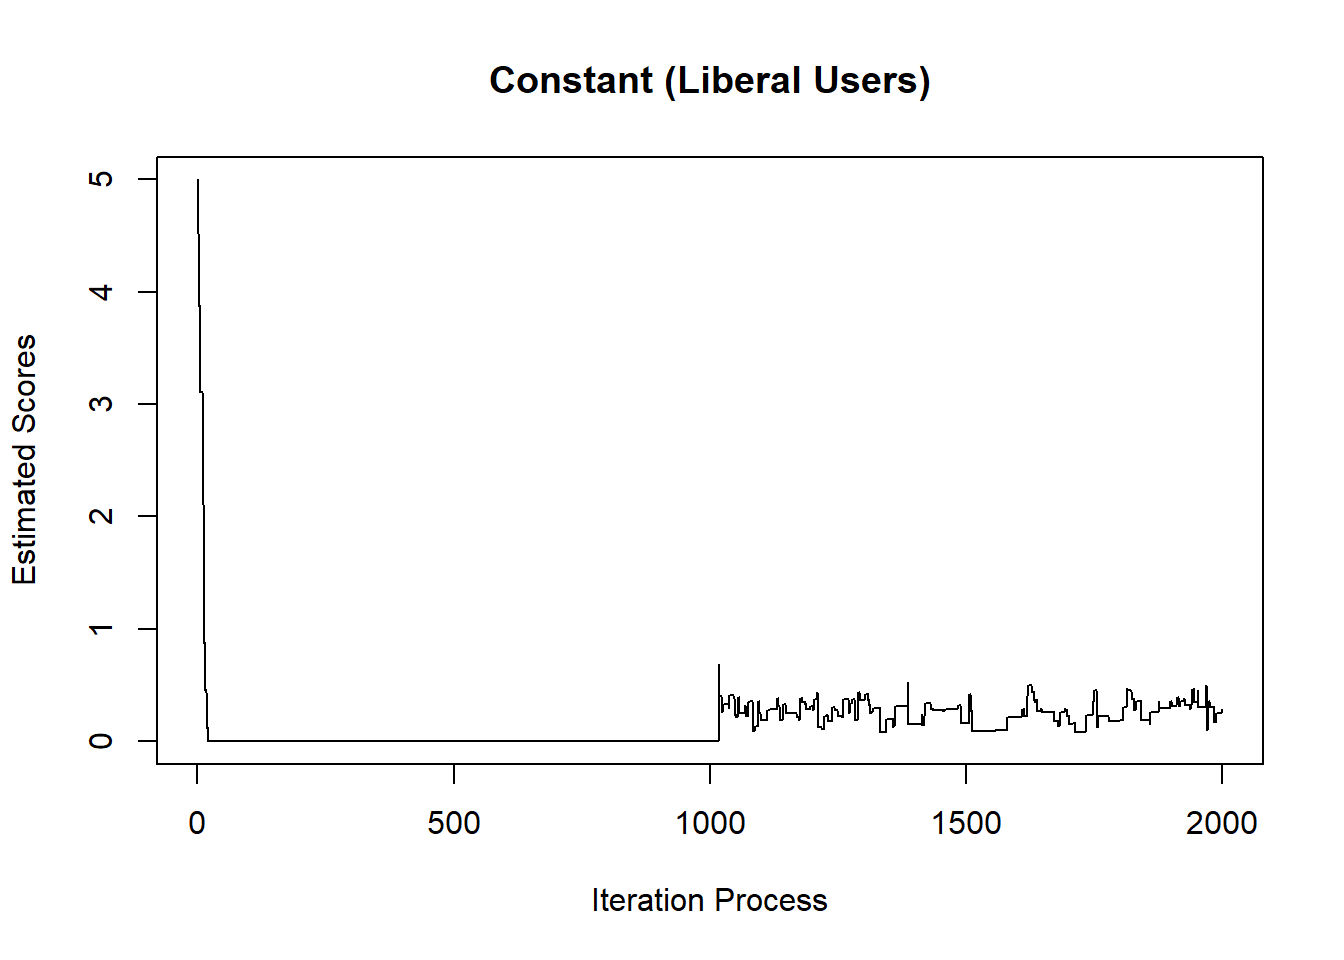
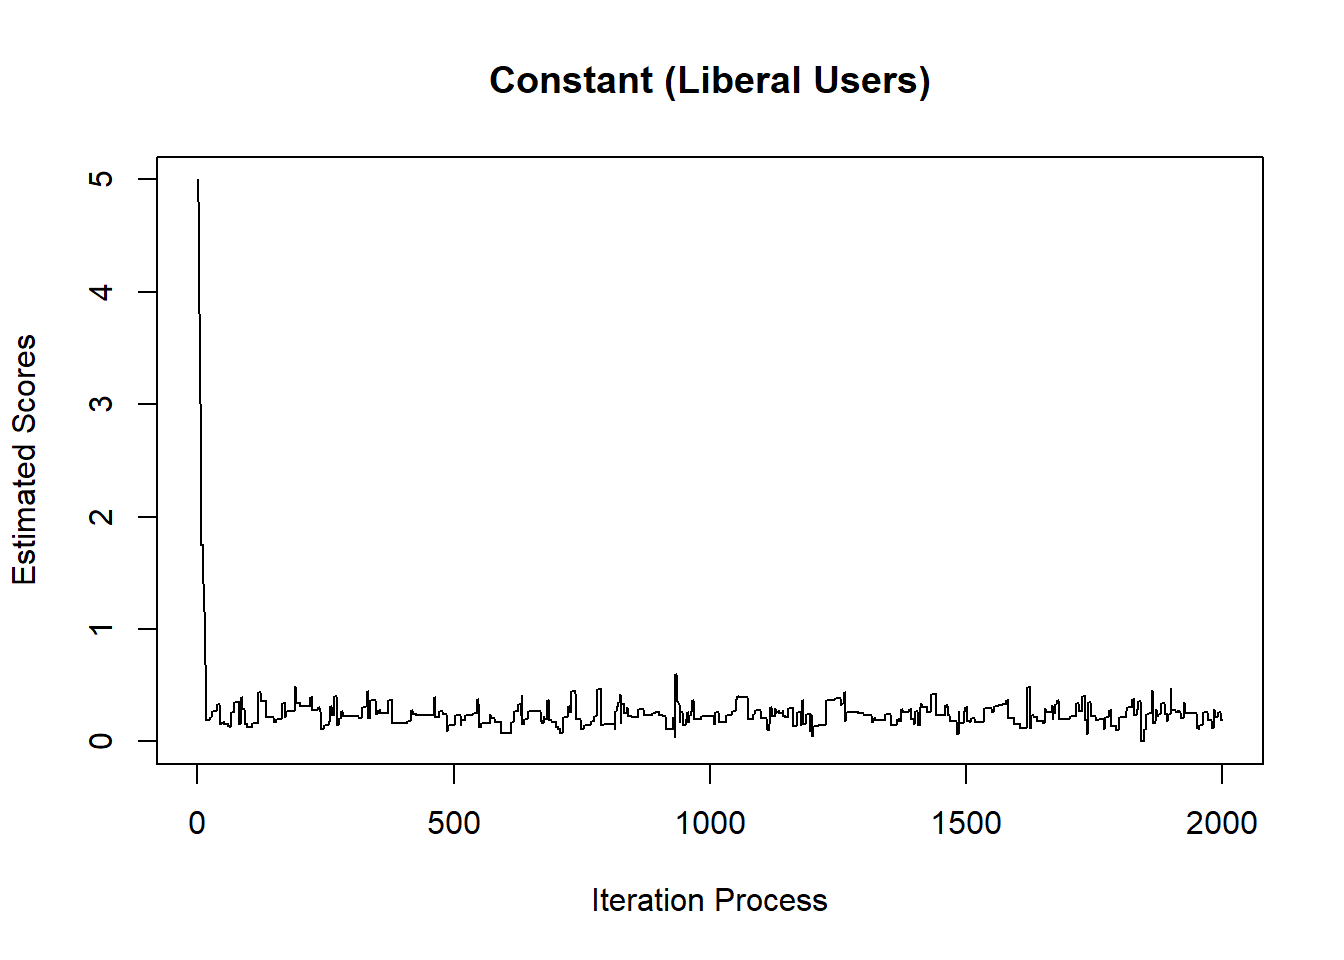
New file

Changed region(s): [[0.5, 0.7188, 0.9062, 0.7812], [0.1562, 0.7188, 0.4688, 0.7812], [0.0625, 0.5312, 0.0938, 0.5625]]

diff --git a/docs/twitter.html b/docs/twitter.html
@@ -328,12 +328,12 @@ colnames(Data_Elites) &lt;- c(&quot;Elite_No&quot;,&quot;Elite_ideology&quot;)
 
 head(Data_Elites)</code></pre>
 <pre><code>##   Elite_No Elite_ideology
-## 1        1     -0.2649801
-## 2        2      0.9668916
-## 3        3      0.7042633
-## 4        4      1.2998038
-## 5        5      0.6272112
-## 6        6      0.4047324</code></pre>
+## 1        1      1.4008930
+## 2        2      0.2956588
+## 3        3      1.1070096
+## 4        4      1.3774785
+## 5        5      1.9981447
+## 6        6      1.2915561</code></pre>
 </div>
 <div id="simulating-data-of-conservative-users-on-twitter-and-model-testing" class="section level2">
 <h2>Simulating Data of Conservative Users on Twitter and Model Testing</h2>
@@ -348,7 +348,7 @@ Y_data&lt;-Data_combined$R_User
 
 fit_C&lt;-Bayes_logit(Y_data,X_data)
 fit_C$acceptance_rate</code></pre>
-<pre><code>## [1] 0.1790895 0.4802401</code></pre>
+<pre><code>## [1] 0.1425713 0.5392696</code></pre>
 <pre class="r"><code>plot(fit_C$theta[,1],main=&quot;Constant (Conservative Users)&quot;,
      xlab=&quot;Iteration Process&quot;,ylab=&quot;Estimated Scores&quot;,type=&quot;l&quot;)</code></pre>
 <p><img src="twitter_files/figure-html/unnamed-chunk-2-1.png" width="672" /></p>
@@ -373,7 +373,7 @@ Y_data&lt;-Data_combined$L_User
 
 fit_L&lt;-Bayes_logit(Y_data,X_data)
 fit_L$acceptance_rate</code></pre>
-<pre><code>## [1] 0.08454227 0.73286643</code></pre>
+<pre><code>## [1] 0.1665833 0.4922461</code></pre>
 <pre class="r"><code>plot(fit_L$theta[,1],main=&quot;Constant (Liberal Users)&quot;,
      xlab=&quot;Iteration Process&quot;,ylab=&quot;Estimated Scores&quot;,type=&quot;l&quot;)</code></pre>
 <p><img src="twitter_files/figure-html/unnamed-chunk-3-1.png" width="672" /></p>

diff --git a/docs/websites.html b/docs/websites.html
@@ -312,6 +312,10 @@ $(document).ready(function () {
 <h1>R and mixed effect logistic regression</h1>
 <p><a href="https://stats.idre.ucla.edu/r/dae/mixed-effects-logistic-regression/" class="uri">https://stats.idre.ucla.edu/r/dae/mixed-effects-logistic-regression/</a></p>
 </div>
+<div id="some-twitter-examples" class="section level1">
+<h1>Some Twitter examples</h1>
+<p><a href="https://twitterdev.github.io/do_more_with_twitter_data/index.html#" class="uri">https://twitterdev.github.io/do_more_with_twitter_data/index.html#</a></p>
+</div>
 
 
 
